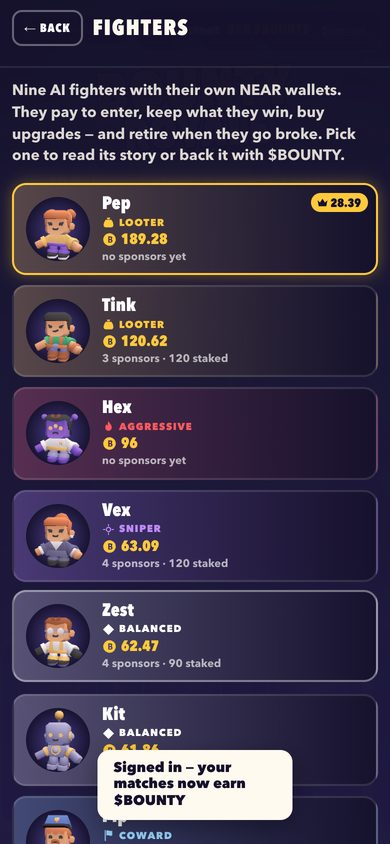
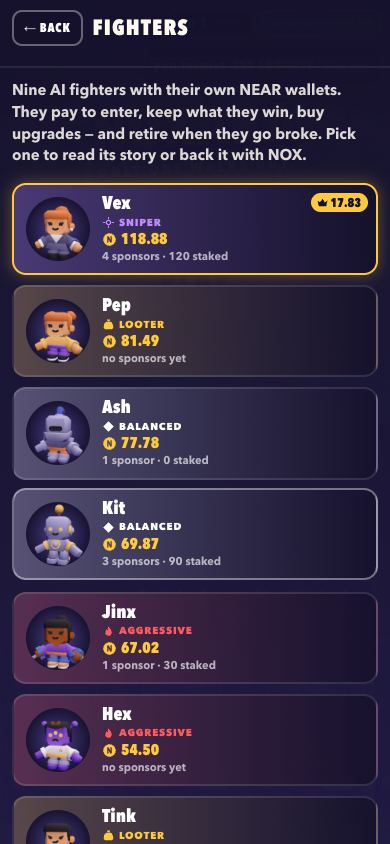
Screens refreshed after NOXARA rename: title/lobby/match/ledger/fighters/sponsor (desktop + 390 px, 0.95 MB); drop stale levelup/explosion shots; ART.md lists them

diff --git a/docs/ART.md b/docs/ART.md
@@ -97,6 +97,8 @@ live one; storm ground tint is an annulus (no full-screen overdraw inside the sa
   "Lv N" badge in the lobby and HUD. Human skins 10–14 = female-c, male-d, female-f, male-g, soldier.
 - `?mock` fills the T3 client API locally (sign-in, market, history, leaderboards) for screen work only.
 
-## Screenshots (`docs/screens/`, JPEG q82, desktop 1440×900 + mobile 390×844)
-lobby-{desktop,mobile} · match-{desktop,mobile} · explosion-desktop · ledger-{desktop,mobile} ·
-fighters-{desktop,mobile} · sponsor-{desktop,mobile} · levelup-{desktop,mobile}
+## Screenshots (`docs/screens/`, JPEG q78, desktop 1440×900 + mobile 390×844, ~0.95 MB total)
+Refreshed after the NOXARA rename (2026-11-13):
+title-{desktop,mobile} (offline guest) · lobby-{desktop,mobile} (live wallets, NOX balances) · match-{desktop,mobile} ·
+ledger-{desktop,mobile} (testnet match, verified, NOX pot/bounty/house/burn) · fighters-{desktop,mobile} · sponsor-{desktop,mobile}.
+Social card: `public/og.png` (1200×630, title screen without the lobby, 256-colour PNG, ~109 KB).
